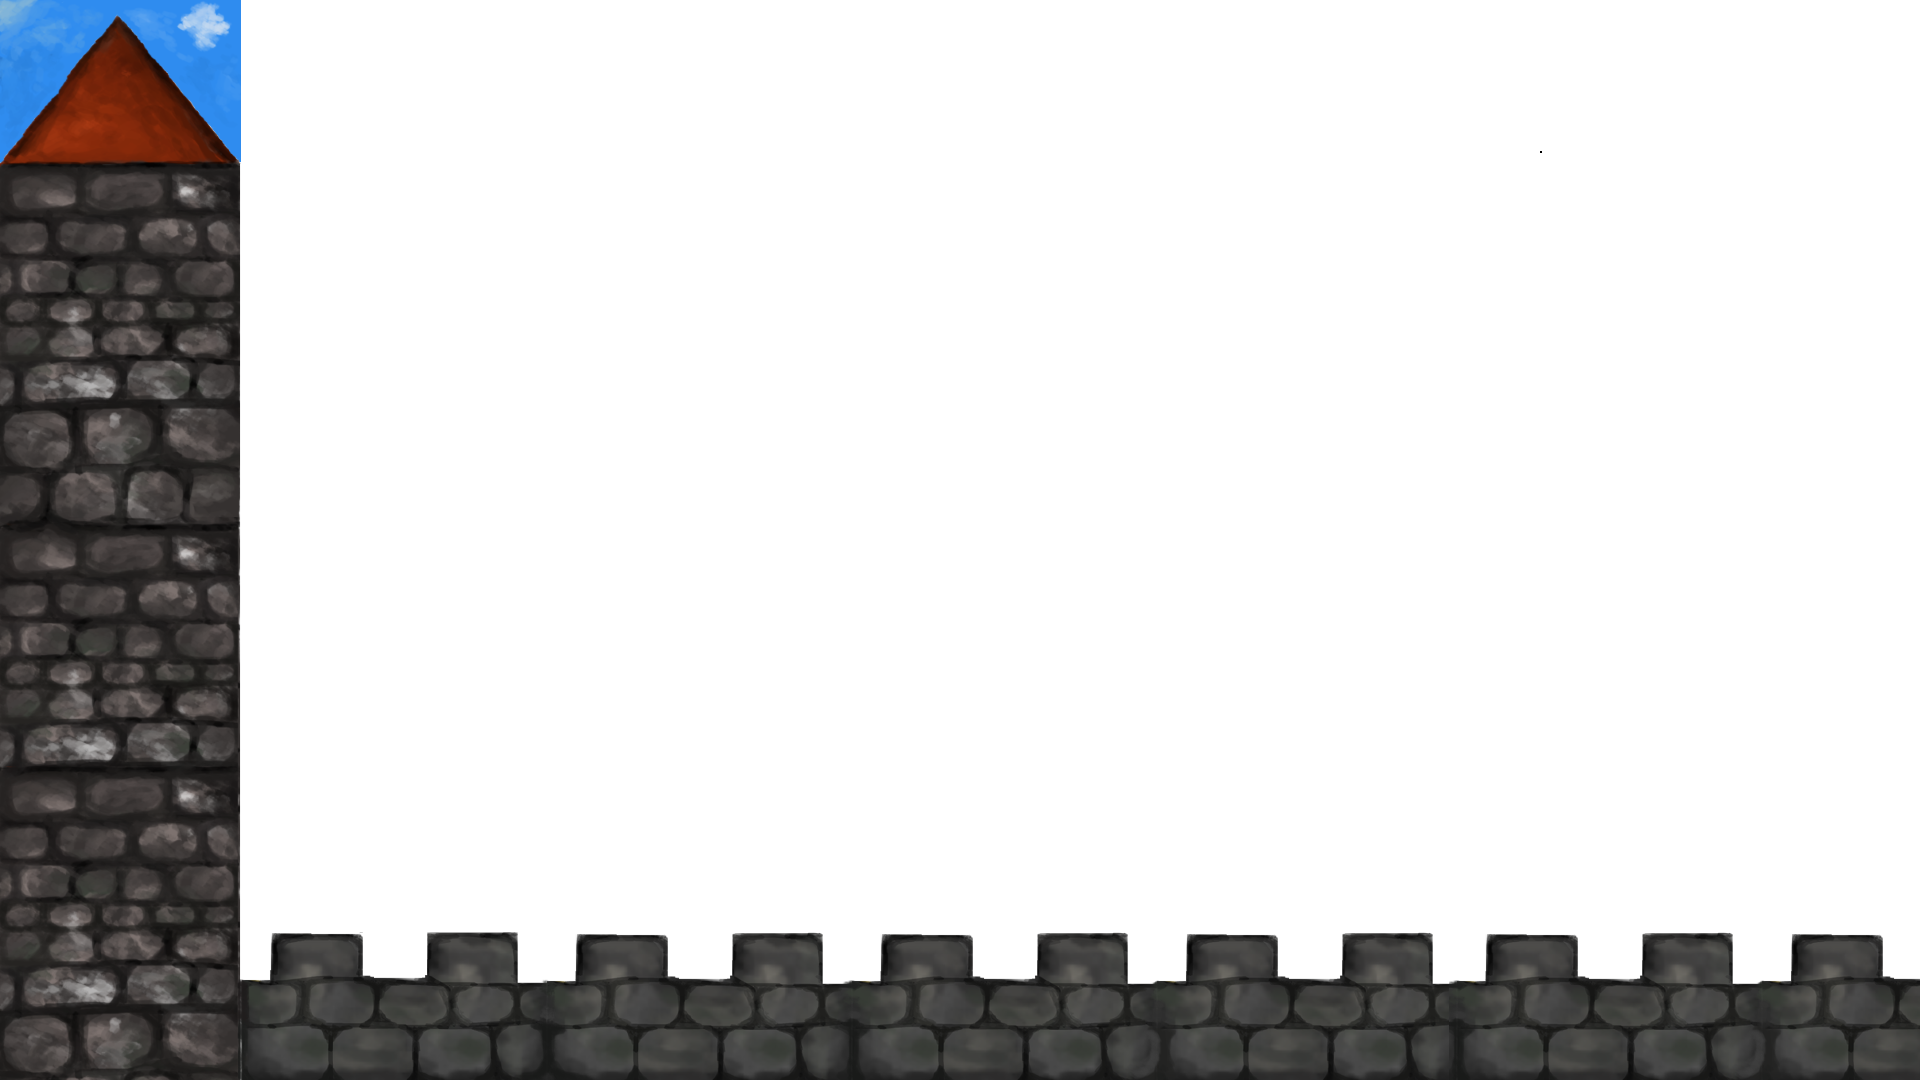
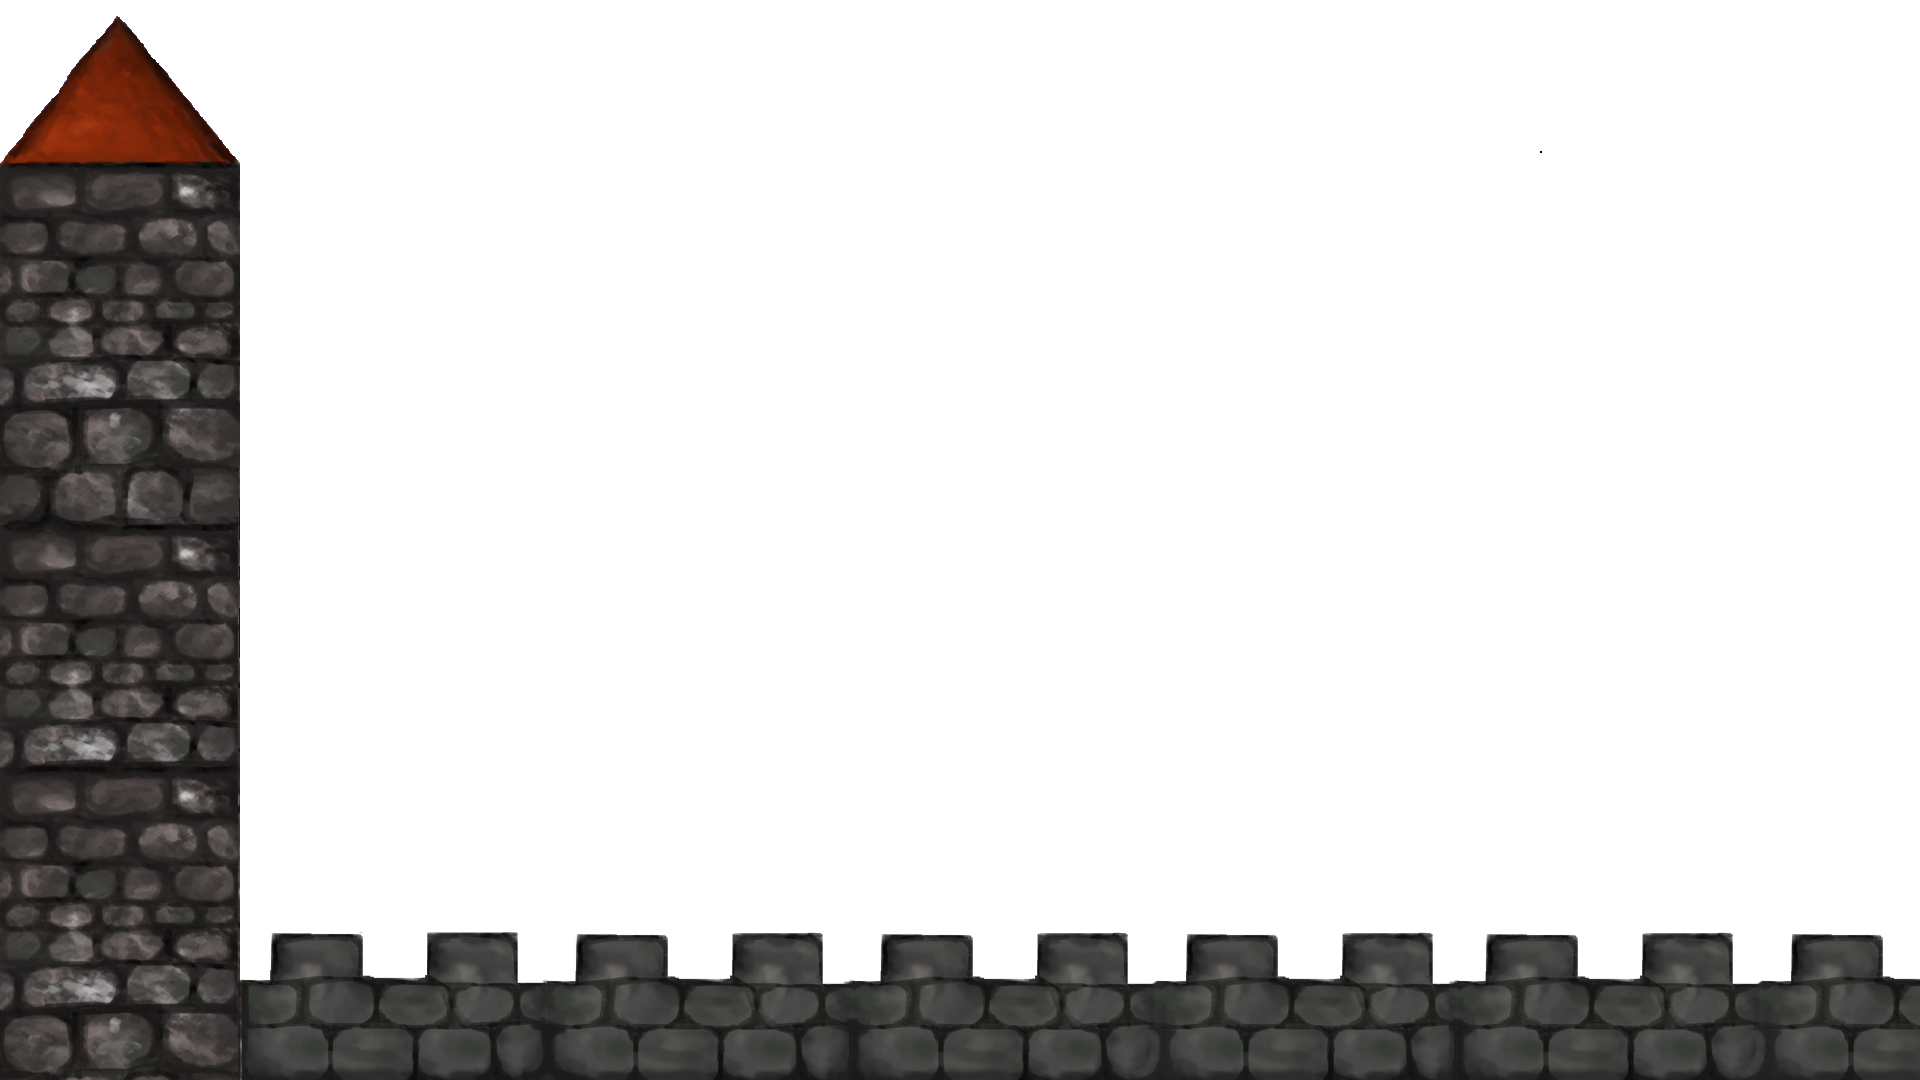
Fixed witte rand in de ingame view

Changed region(s): [[0.0, 0.0, 0.125, 0.1528]]

diff --git a/Carcassonne_Client/src/style.css b/Carcassonne_Client/src/style.css
@@ -29,7 +29,7 @@
 	-fx-background-image: url("Tet_Back_test.png");
 	-fx-background-size: cover;
 }
-#Player{
+#Speler{
 -fx-image: url("Text_Back_Player.png");
 }
 #Kaartview{

diff --git a/Carcassonne_Client/src/Views/GameScene.java b/Carcassonne_Client/src/Views/GameScene.java
@@ -40,6 +40,7 @@ public class GameScene extends Scene {
 	HBox test;
 
 	TileView[][] tileViews;
+	HBox[] hBoxes;
 
 	public ImageView ShowKaart;
 
@@ -77,18 +78,20 @@ public class GameScene extends Scene {
 	 */
 	public void createTileGrid(int sizeX, int sizeY) {
 		tileViews = new TileView[sizeX][sizeY];
+		hBoxes = new HBox[100];
 		VBox verticaal = new VBox();
 		//tilesPane.getChildren().add(verticaal);
-		for (int y = 0; y < sizeX; y++) {
+		for (int y = 0; y < sizeY; y++) {
 			HBox horizontal = new HBox();
+			hBoxes[y] = horizontal;
 			verticaal.getChildren().add(horizontal);
-			for (int x = 0; x < sizeY; x++) {
+			for (int x = 0; x < sizeX; x++) {
 				TileView tileView = new TileView(x, y, this);
 				tileViews[x][y] = tileView;
 				horizontal.getChildren().add(tileView);
 			}
-		}
 
+		}
 		tilesPane.getChildren().add(verticaal);
 		tilesPane.setId("hallo");
 		//verticaal.setLayoutX(sceneWidth * 0.149);
@@ -111,6 +114,8 @@ public class GameScene extends Scene {
 
 	}
 
+
+
 	public void addTilePreviews(int x, int y) {
 		addTilePreview(x - 1, y);
 		addTilePreview(x + 1, y);
@@ -127,6 +132,7 @@ public class GameScene extends Scene {
 		if (tileViews[x][y].getId().contains("Empty")) {
 			tileViews[x][y].setId("KaartPreview");
 		}
+
 	}
 
 	public void init() {
@@ -143,7 +149,7 @@ public class GameScene extends Scene {
 		VBox links = new VBox(sceneHeight * 0.0);
 		links.setPadding(new Insets(0, 0, 0, 20));
 
-		Spane.setLeft(links);
+	//	Spane.setLeft(links);
 
 		ImageView imgView = new ImageView();
 		imgView.fitHeightProperty().bind(heightProperty().multiply(0.2));
@@ -183,9 +189,10 @@ public class GameScene extends Scene {
 		});
 
 		HBox onder = new HBox();
+		onder.getChildren().add(links);
 		onder.setPadding(new Insets(0, 0, 0, 0));
 		//links.getChildren().add(onder);
-		Spane.setBottom(onder);
+		Spane.setLeft(onder);
 
 		 KaartenLeft = new SmartLabel("Kaarten over: " + kaartenOver);
 		links.getChildren().add(KaartenLeft);
